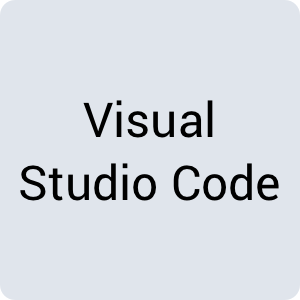
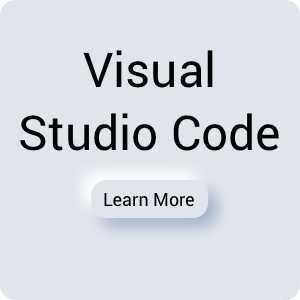
added links and updated back cards

Changed region(s): [[0.06, 0.54, 0.93, 0.78], [0.06, 0.33, 0.93, 0.51], [0.27, 0.15, 0.72, 0.3]]

diff --git a/app/components/body.js b/app/components/body.js
@@ -17,7 +17,7 @@ export default Component.extend({
     imageBackCardFive: '/assets/images/html5back.png',
 
     imageFrontCardSix: '/assets/images/csstest.png',
-    imageBackCardSix: '/assets/images/cssbacktest.png',
+    imageBackCardSix: '/assets/images/cssback.png',
 
     imageFrontCardSeven: '/assets/images/js.png',
     imageBackCardSeven: '/assets/images/jsback.png',

diff --git a/app/styles/card/_flipcard.scss b/app/styles/card/_flipcard.scss
@@ -19,6 +19,7 @@
   transform: rotateY(180deg);
 }
 
+
 .flip-card-front,
 .flip-card-back {
   display: flex;
@@ -43,7 +44,6 @@
       width: 300px;
       height: 300px;
       align-self: center;
-
     }
   }
 }

diff --git a/app/styles/_emberconf.scss b/app/styles/_emberconf.scss
@@ -6,6 +6,7 @@
   padding: 15px 32px;
   text-align: left;
   font-size: 10px;
+  
 
   @include xl {
     font-size: 28px;
